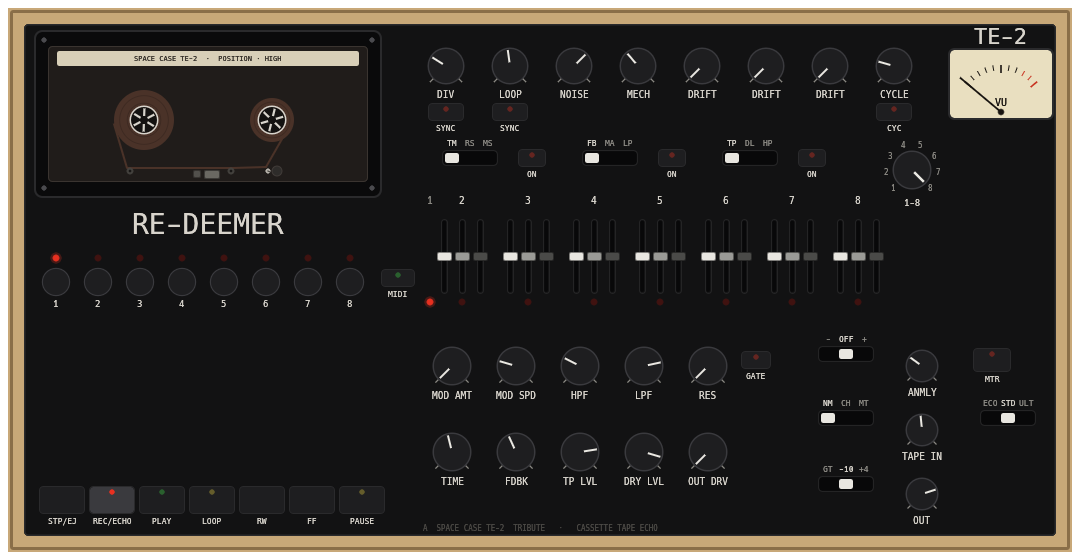
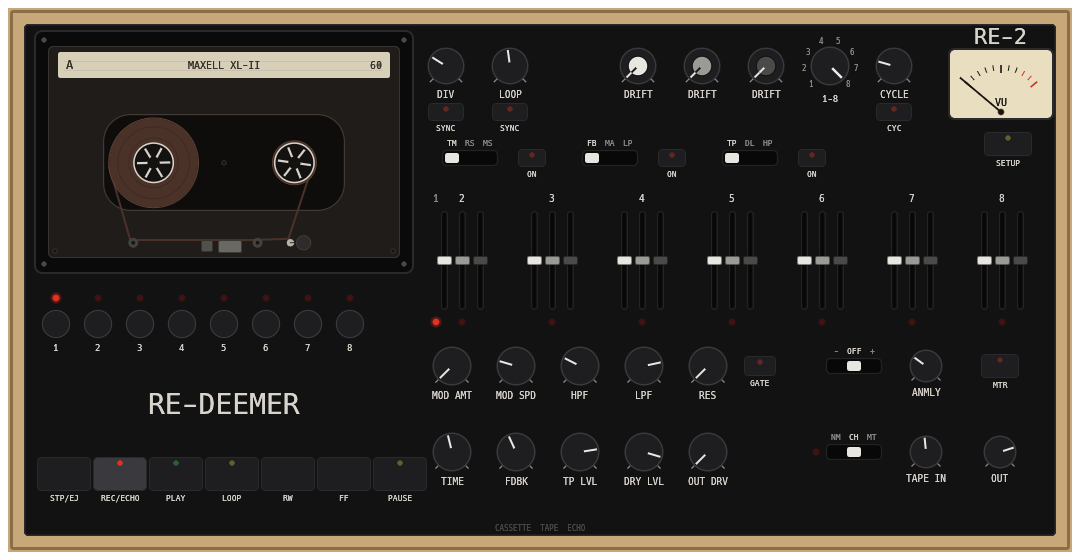
Site: v1.0.1 screenshots, machine-room section, restyle
Fresh panel and overlay renders, spinning-cassette wordmark, running
tape dividers, live version badge from the releases API, notarization
note, machine-room feature section. Footer de-branded to match the
plugin.

diff --git a/docs/index.html b/docs/index.html
@@ -1,19 +1,28 @@
 <!doctype html>
 <!--
   RE-DEEMER site — single static file, no build step.
-  Served by GitHub Pages from /docs on main. The download button points at
-  the *latest* release asset, so new releases need zero edits here.
+  Served by GitHub Pages from /docs on main: edit, commit, push, and the
+  "pages build and deployment" workflow redeploys it in about a minute.
+  The download button points at the *latest* release asset, so new releases
+  need zero edits here. Screenshots are te2-snapshot renders:
+    cargo run -p te2-plugin --release --features snapshot --bin te2-snapshot docs/panel.png
+    cargo run -p te2-plugin --release --features snapshot --bin te2-snapshot docs/overlay.png overlay
 -->
 <html lang="en">
 <head>
 <meta charset="utf-8">
 <meta name="viewport" content="width=device-width, initial-scale=1">
 <title>RE-DEEMER — free cassette tape echo (VST3 / CLAP / AU)</title>
-<meta name="description" content="RE-DEEMER is a free cassette tape echo plugin for macOS — a physical model of the Space Case TE-2 that never shipped. VST3, CLAP, AU.">
+<meta name="description" content="RE-DEEMER is a free cassette tape echo plugin for macOS — a physical model of a cassette echo instrument that never shipped. VST3, CLAP, AU.">
+<meta property="og:title" content="RE-DEEMER — free cassette tape echo">
+<meta property="og:description" content="A physical model of the cassette tape echo that never shipped. Free. VST3 / CLAP / AU, macOS.">
+<meta property="og:image" content="https://naturarum.github.io/re-deemer/panel.png">
+<meta property="og:url" content="https://naturarum.github.io/re-deemer/">
 <style>
   :root {
-    --wood: #c8a878; --panel: #121213; --panel-edge: #2a2a2c;
+    --wood: #c8a878; --wood-edge: #8a6e48; --panel: #121213; --panel-edge: #2a2a2c;
     --ink: #d8d4cc; --ink-dim: #8a8882; --red: #e83020; --cream: #e9dfc0;
+    --amber: #b88638;
   }
   * { box-sizing: border-box; margin: 0; padding: 0; }
   body {
@@ -21,69 +30,151 @@
     font-family: ui-monospace, "SF Mono", Menlo, Consolas, monospace;
     line-height: 1.6;
   }
+  /* Oiled-maple strip across the top, like the frame. */
+  .frame {
+    height: 10px;
+    background: linear-gradient(180deg, #d4b485, var(--wood) 55%, var(--wood-edge));
+  }
+  /* A length of running tape, used as a section divider. */
+  .tape {
+    height: 4px; border: 0; margin: 0;
+    background: repeating-linear-gradient(90deg,
+      #4a3228 0 26px, #5e4234 26px 28px);
+    background-size: 28px 4px;
+    animation: roll 1.2s linear infinite;
+    opacity: .8;
+  }
+  @keyframes roll { to { background-position: -28px 0; } }
+  @media (prefers-reduced-motion: reduce) {
+    .tape { animation: none; }
+    .hub { animation: none !important; }
+  }
+
   .wrap { max-width: 880px; margin: 0 auto; padding: 0 24px; }
-  header { padding: 72px 0 32px; text-align: center; }
+  header { padding: 64px 0 32px; text-align: center; }
+  .cassette-mark { display: block; margin: 0 auto 18px; }
+  .hub { transform-box: fill-box; transform-origin: center; animation: spin 5s linear infinite; }
+  .hub.r { animation-duration: 3.4s; }
+  @keyframes spin { to { transform: rotate(360deg); } }
   h1 { font-size: 56px; letter-spacing: 4px; }
   h1 .dash { color: var(--red); }
   .tag { color: var(--ink-dim); margin-top: 8px; font-size: 15px; }
   .tag em { color: var(--cream); font-style: normal; }
-  .hero { margin: 40px 0; border: 6px solid var(--wood); border-radius: 6px;
-          box-shadow: 0 24px 80px rgba(0,0,0,.6); }
+
+  .hero { margin: 40px 0 12px; border: 6px solid var(--wood); border-radius: 6px;
+          box-shadow: 0 24px 80px rgba(0,0,0,.65), inset 0 0 0 1px var(--wood-edge); }
   .hero img { width: 100%; display: block; }
-  .buttons { display: flex; gap: 16px; justify-content: center; flex-wrap: wrap; margin: 32px 0; }
+  .hero-cap { color: var(--ink-dim); font-size: 12px; letter-spacing: 1px; }
+
+  .buttons { display: flex; gap: 16px; justify-content: center; flex-wrap: wrap; margin: 36px 0 10px; }
   .btn {
     display: inline-block; padding: 14px 28px; border-radius: 4px;
     text-decoration: none; font-size: 15px; letter-spacing: 1px;
-    border: 1px solid var(--panel-edge); transition: transform .1s;
+    border: 1px solid var(--panel-edge); transition: transform .1s, box-shadow .15s;
   }
   .btn:hover { transform: translateY(-1px); }
   .btn-dl { background: var(--red); color: #fff; border-color: #a02016; }
+  .btn-dl:hover { box-shadow: 0 0 24px rgba(232, 48, 32, .35); }
   .btn-tip { background: var(--panel); color: var(--cream); }
+  .btn-tip:hover { box-shadow: 0 0 18px rgba(233, 223, 192, .12); }
+  .relmeta { text-align: center; color: var(--ink-dim); font-size: 12px; letter-spacing: 1px; margin-bottom: 26px; }
+  .relmeta b { color: var(--cream); font-weight: normal; }
   .free { text-align: center; color: var(--ink-dim); font-size: 13px; max-width: 560px; margin: 0 auto 48px; }
-  section { border-top: 1px solid var(--panel-edge); padding: 48px 0; }
+
+  section { padding: 48px 0; }
   h2 { font-size: 18px; letter-spacing: 2px; color: var(--cream); margin-bottom: 20px; text-transform: uppercase; }
+  h2::before { content: "▮ "; color: var(--red); }
   p + p { margin-top: 12px; }
   .grid { display: grid; grid-template-columns: repeat(auto-fit, minmax(240px, 1fr)); gap: 20px; margin-top: 24px; }
   .cell { background: var(--panel); border: 1px solid var(--panel-edge); border-radius: 6px; padding: 18px; }
   .cell h3 { font-size: 13px; color: var(--cream); letter-spacing: 1px; margin-bottom: 8px; }
   .cell p { font-size: 13px; color: var(--ink-dim); }
+
+  .machine { display: grid; grid-template-columns: 1.2fr 1fr; gap: 28px; align-items: center; margin-top: 24px; }
+  .machine img { width: 100%; display: block; border: 1px solid var(--panel-edge);
+                 border-radius: 6px; box-shadow: 0 16px 48px rgba(0,0,0,.5); }
+  @media (max-width: 700px) { .machine { grid-template-columns: 1fr; } }
+
   ul { list-style: none; }
   li { padding-left: 18px; position: relative; margin: 6px 0; font-size: 14px; }
   li::before { content: "▸"; position: absolute; left: 0; color: var(--red); }
+  .machine li::before { color: var(--amber); }
   code { background: var(--panel); border: 1px solid var(--panel-edge);
          padding: 1px 6px; border-radius: 3px; font-size: 13px; }
   a { color: var(--cream); }
-  footer { border-top: 1px solid var(--panel-edge); padding: 40px 0 64px;
-           text-align: center; color: var(--ink-dim); font-size: 12px; }
+  footer { padding: 40px 0 64px; text-align: center; color: var(--ink-dim); font-size: 12px; }
   @media (max-width: 600px) { h1 { font-size: 36px; } }
 </style>
 </head>
 <body>
 
+<div class="frame"></div>
+
 <header class="wrap">
+  <svg class="cassette-mark" width="120" height="74" viewBox="0 0 120 74" aria-hidden="true">
+    <rect x="2" y="2" width="116" height="70" rx="7" fill="#201c1a" stroke="#3a3430" stroke-width="1.5"/>
+    <rect x="12" y="9" width="96" height="15" rx="2" fill="#d8cfb8"/>
+    <text x="60" y="20" text-anchor="middle" font-family="ui-monospace, Menlo, monospace" font-size="9" fill="#332e28">RE-DEEMER · 60</text>
+    <rect x="22" y="30" width="76" height="32" rx="14" fill="#0e0d0c" stroke="#423a34"/>
+    <g class="hub">
+      <circle cx="40" cy="46" r="13" fill="#4a3228"/>
+      <circle cx="40" cy="46" r="7" fill="#14110f" stroke="#d8d4cc" stroke-width="1.4"/>
+      <g stroke="#d8d4cc" stroke-width="1.6">
+        <line x1="40" y1="41" x2="40" y2="44"/><line x1="35.7" y1="48.5" x2="38.3" y2="47"/><line x1="44.3" y1="48.5" x2="41.7" y2="47"/>
+      </g>
+    </g>
+    <g class="hub r">
+      <circle cx="80" cy="46" r="9" fill="#4a3228"/>
+      <circle cx="80" cy="46" r="7" fill="#14110f" stroke="#d8d4cc" stroke-width="1.4"/>
+      <g stroke="#d8d4cc" stroke-width="1.6">
+        <line x1="80" y1="41" x2="80" y2="44"/><line x1="75.7" y1="48.5" x2="78.3" y2="47"/><line x1="84.3" y1="48.5" x2="81.7" y2="47"/>
+      </g>
+    </g>
+  </svg>
+
   <h1>RE<span class="dash">-</span>DEEMER</h1>
   <p class="tag">cassette tape echo · <em>the preorder, redeemed</em> · VST3 / CLAP / AU · macOS · free</p>
 
-  <div class="hero"><img src="panel.png" alt="The RE-DEEMER panel: cassette window, VU meter, 21-fader position matrix, transport buttons"></div>
+  <div class="hero"><img src="panel.png" alt="The RE-DEEMER panel: cassette window with live spools, VU meter, 21-fader position matrix, transport buttons"></div>
+  <p class="hero-cap">THE SPOOLS ARE REAL: TAPE FOOTAGE WINDS LEFT TO RIGHT OVER A 30-MINUTE SIDE, AND REWIND WINDS IT BACK.</p>
 
   <div class="buttons">
     <a class="btn btn-dl" href="https://github.com/naturarum/re-deemer/releases/latest/download/RE-DEEMER-macos.zip">⬇&nbsp;&nbsp;DOWNLOAD FREE — macOS</a>
     <a class="btn btn-tip" href="https://paypal.me/naturarerum">♥&nbsp;&nbsp;TIP JAR</a>
   </div>
+  <p class="relmeta"><b id="rel-tag">latest release</b> · notarized · universal (Apple silicon + Intel)</p>
   <p class="free">RE-DEEMER is free, forever. People waited years for this machine — they deserve to get it for nothing. If it earns a place in your music, the tip jar keeps the tape rolling.</p>
 </header>
 
+<hr class="tape">
+
 <section class="wrap">
   <h2>The story</h2>
-  <p>Around 2018, a cassette tape echo instrument called the Space Case TE-2 was announced: a real cassette transport, a position sequencer played like a keyboard, self-oscillating Roland-style filters, an Anomaly switch that made the tape hiccup on purpose. People pre-ordered. It never shipped.</p>
+  <p>Around 2018, a cassette tape echo instrument was announced: a real cassette transport, a position sequencer played like a keyboard, self-oscillating Roland-style filters, an Anomaly switch that made the tape hiccup on purpose. People pre-ordered. It never shipped.</p>
   <p>RE-DEEMER is that machine, redeemed in software — built from the original reference guide and block diagram, as a physical model rather than a delay with tape flavoring. The motor has inertia. The tape has hysteresis. The hiss is recorded onto the tape and echoes with your signal.</p>
 </section>
+
+<hr class="tape">
+
+<section class="wrap">
+  <h2>The machine room</h2>
+  <div class="machine">
+    <img src="overlay.png" alt="The TAPE &amp; MACHINE overlay: tape stock drawer, aging controls with wear bar, machine trims" loading="lazy">
+    <ul>
+      <li><b>Fourteen real cassettes</b> in the drawer — Maxell XL-II to no-name ferric — setting hiss, headroom and how fast the tape wears.</li>
+      <li><b>Tape aging:</b> the longer the transport rolls, the more the oxide sheds — wow, dropouts and hiss creep up while the top end fades. Wear is saved with your project. Freeze it, or eject for a fresh tape.</li>
+      <li><b>A mis-settable deck:</b> the NM/CH/MT switch is the deck, the cassette is the cassette. Chrome tape on a normal setting sounds exactly as wrong as it should.</li>
+    </ul>
+  </div>
+</section>
+
+<hr class="tape">
 
 <section class="wrap">
   <h2>What it does</h2>
   <div class="grid">
     <div class="cell"><h3>REAL TAPE PHYSICS</h3><p>Magnetic hysteresis (Jiles-Atherton), motor inertia, wow &amp; flutter at calibrated cassette figures, head bump, self-erasure. TIME is motor speed: turning it bends the pitch of everything on tape.</p></div>
-    <div class="cell"><h3>POSITIONS &amp; SETS</h3><p>Eight positions, three fader sets, played from buttons or MIDI. The Cycle sequences them from 8 seconds per step to 4,000 steps per second — at audio rate your faders become a waveform.</p></div>
+    <div class="cell"><h3>POSITIONS &amp; SETS</h3><p>Eight positions, three fader sets, played from buttons or MIDI. The Cycle sequences them from 8 seconds per step to 4,000 steps per second — at audio rate your faders become a waveform — and phase-locks to your DAW's grid.</p></div>
     <div class="cell"><h3>SELF-OSC FILTERS</h3><p>24 dB/oct OTA highpass and lowpass inside the echo loop. Resonance to clean self-oscillation — gate it from the 1-8 buttons and play the filter like an 8-note synth.</p></div>
     <div class="cell"><h3>A REAL TRANSPORT</h3><p>PLAY mode manipulates the tape without recording. LOOP lifts the erase head for sound-on-sound layering. RW/FF shuttle. MTR kills the motor and the pitch dies with it. Double-tap eject for a fresh cassette.</p></div>
     <div class="cell"><h3>THE ANOMALY</h3><p>One deliberate tape hiccup, fired on the cycle's last step — a quick flick or a long singular wobble, pitch bending up or down. A broken machine, on demand.</p></div>
@@ -91,20 +182,33 @@
   </div>
 </section>
 
+<hr class="tape">
+
 <section class="wrap">
   <h2>Get it</h2>
   <ul>
     <li><a href="https://github.com/naturarum/re-deemer/releases/latest/download/RE-DEEMER-macos.zip">Download for macOS</a> — universal (Apple silicon + Intel), VST3 + CLAP + AU in one archive with the manual</li>
-    <li>Unzip, run <code>install.sh</code> (copies the plugins and clears macOS quarantine), rescan in your DAW</li>
+    <li>Unzip, run <code>install.sh</code> (copies the plugins into place), rescan in your DAW</li>
+    <li>Builds are Developer ID signed and notarized — no security warnings</li>
     <li>Read the <a href="https://github.com/naturarum/re-deemer/blob/main/MANUAL.md">manual</a> — or skim the recipes and just turn knobs</li>
     <li>Requirements: macOS 10.13+, any DAW that hosts VST3, CLAP, or Audio Units</li>
   </ul>
 </section>
 
+<hr class="tape">
+
 <footer>
-  <p>A tribute to the Space Case TE-2 (Moto Modular / Catskill Analog). Not affiliated.</p>
-  <p style="margin-top:6px">Free &amp; open source · <a href="https://github.com/naturarum/re-deemer">source on GitHub</a> · you waited long enough.</p>
+  <p>A tribute to a machine that never shipped. Not affiliated with its original makers.</p>
+  <p style="margin-top:6px">Free &amp; open source · <a href="https://github.com/naturarum/re-deemer">source on GitHub</a> · <a href="https://github.com/naturarum/re-deemer/blob/main/CHANGELOG.md">changelog</a> · you waited long enough.</p>
 </footer>
+
+<script>
+  // Version badge under the download button; harmless if it fails.
+  fetch("https://api.github.com/repos/naturarum/re-deemer/releases/latest")
+    .then(r => r.json())
+    .then(d => { if (d.tag_name) document.getElementById("rel-tag").textContent = d.tag_name; })
+    .catch(() => {});
+</script>
 
 </body>
 </html>